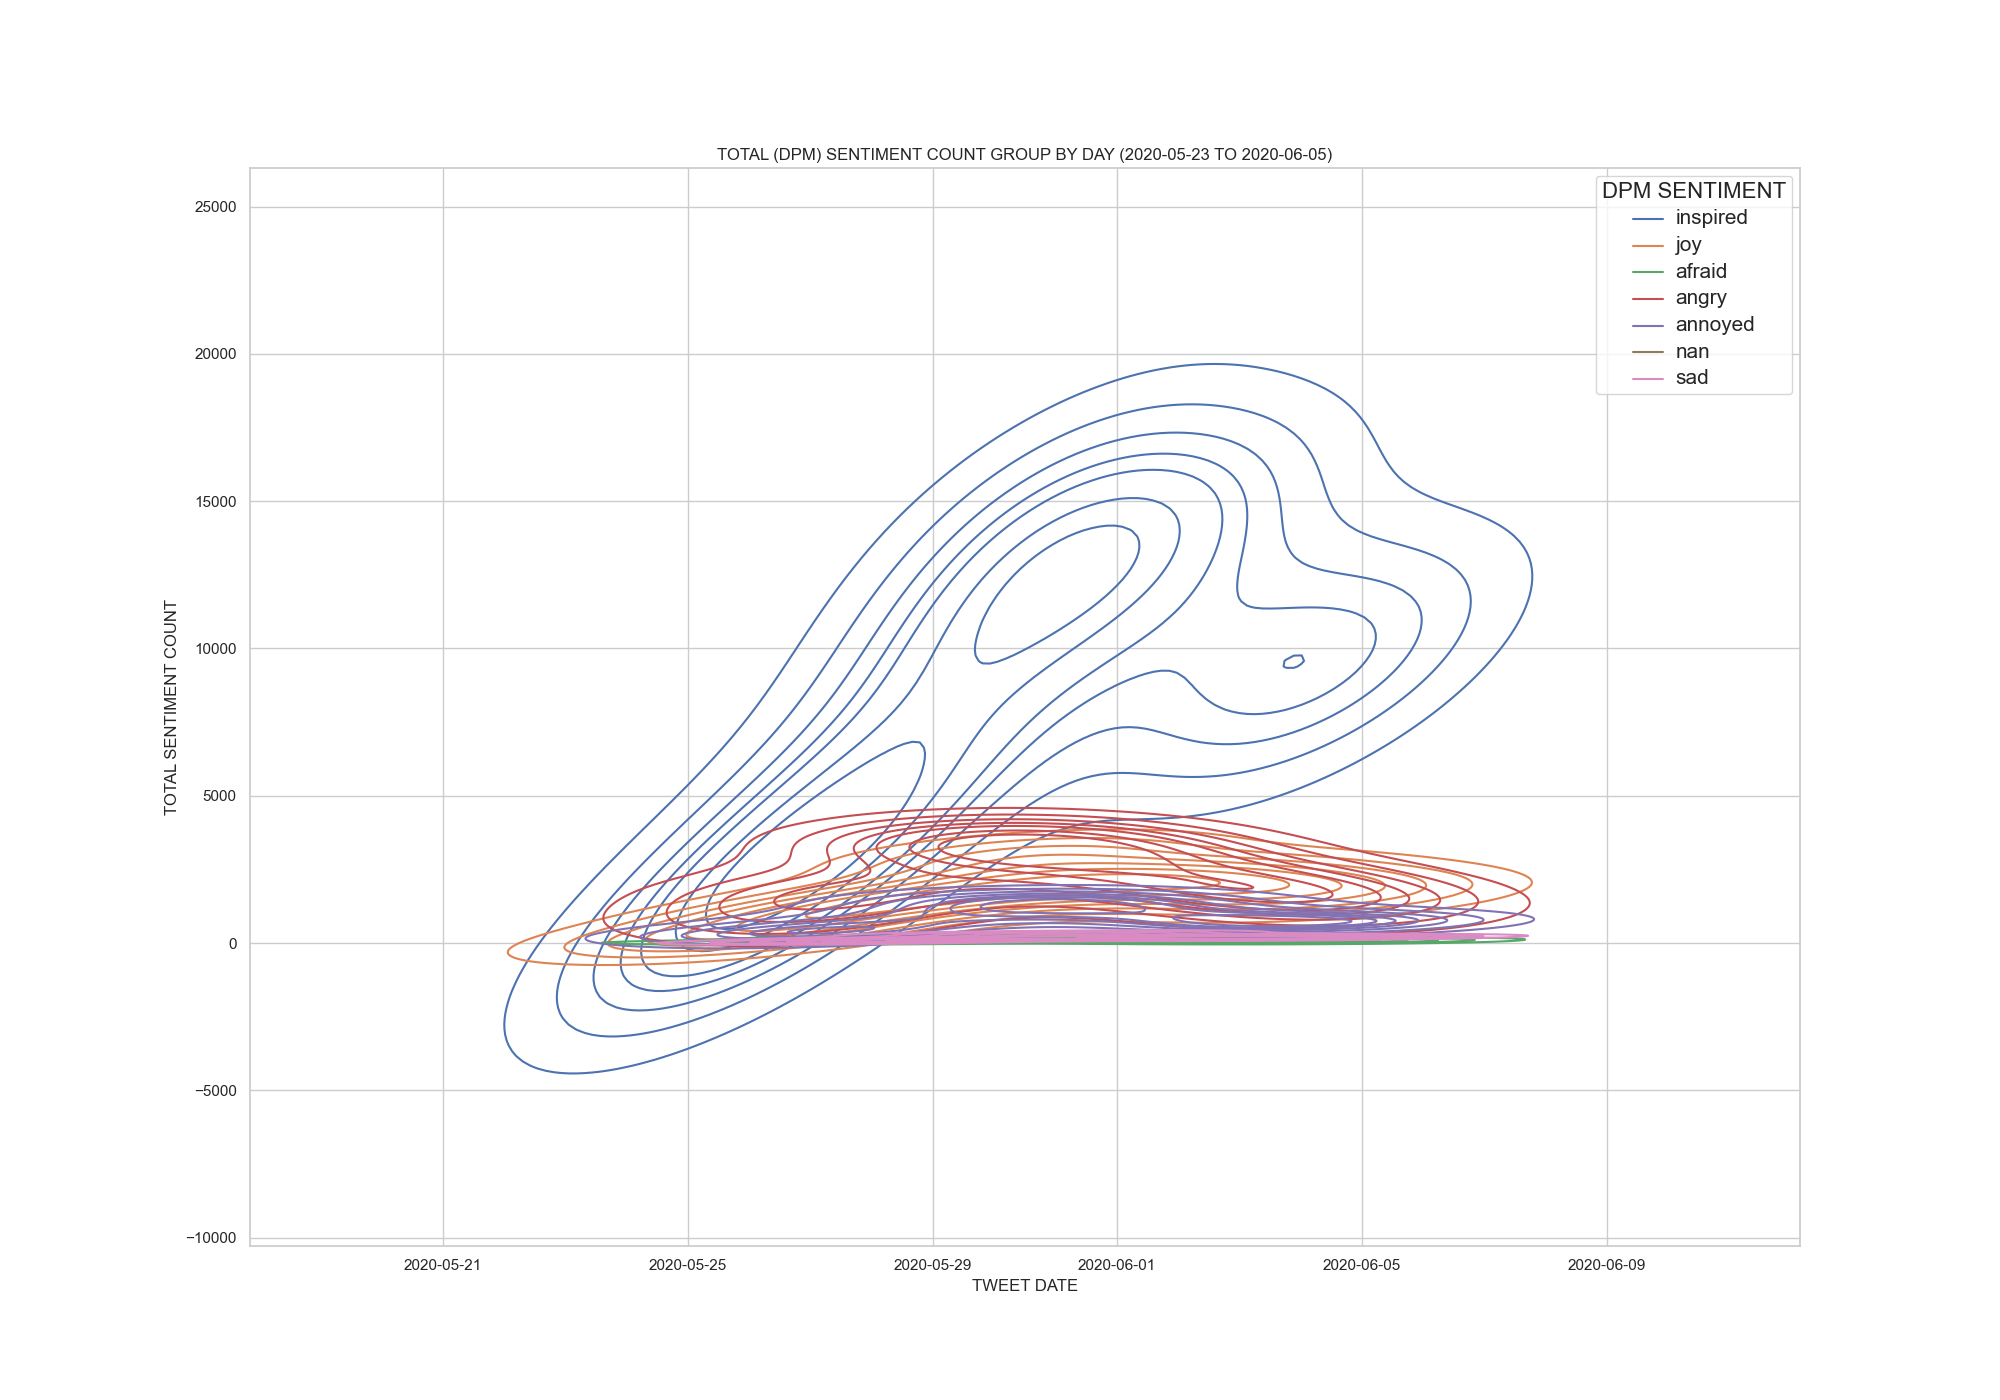
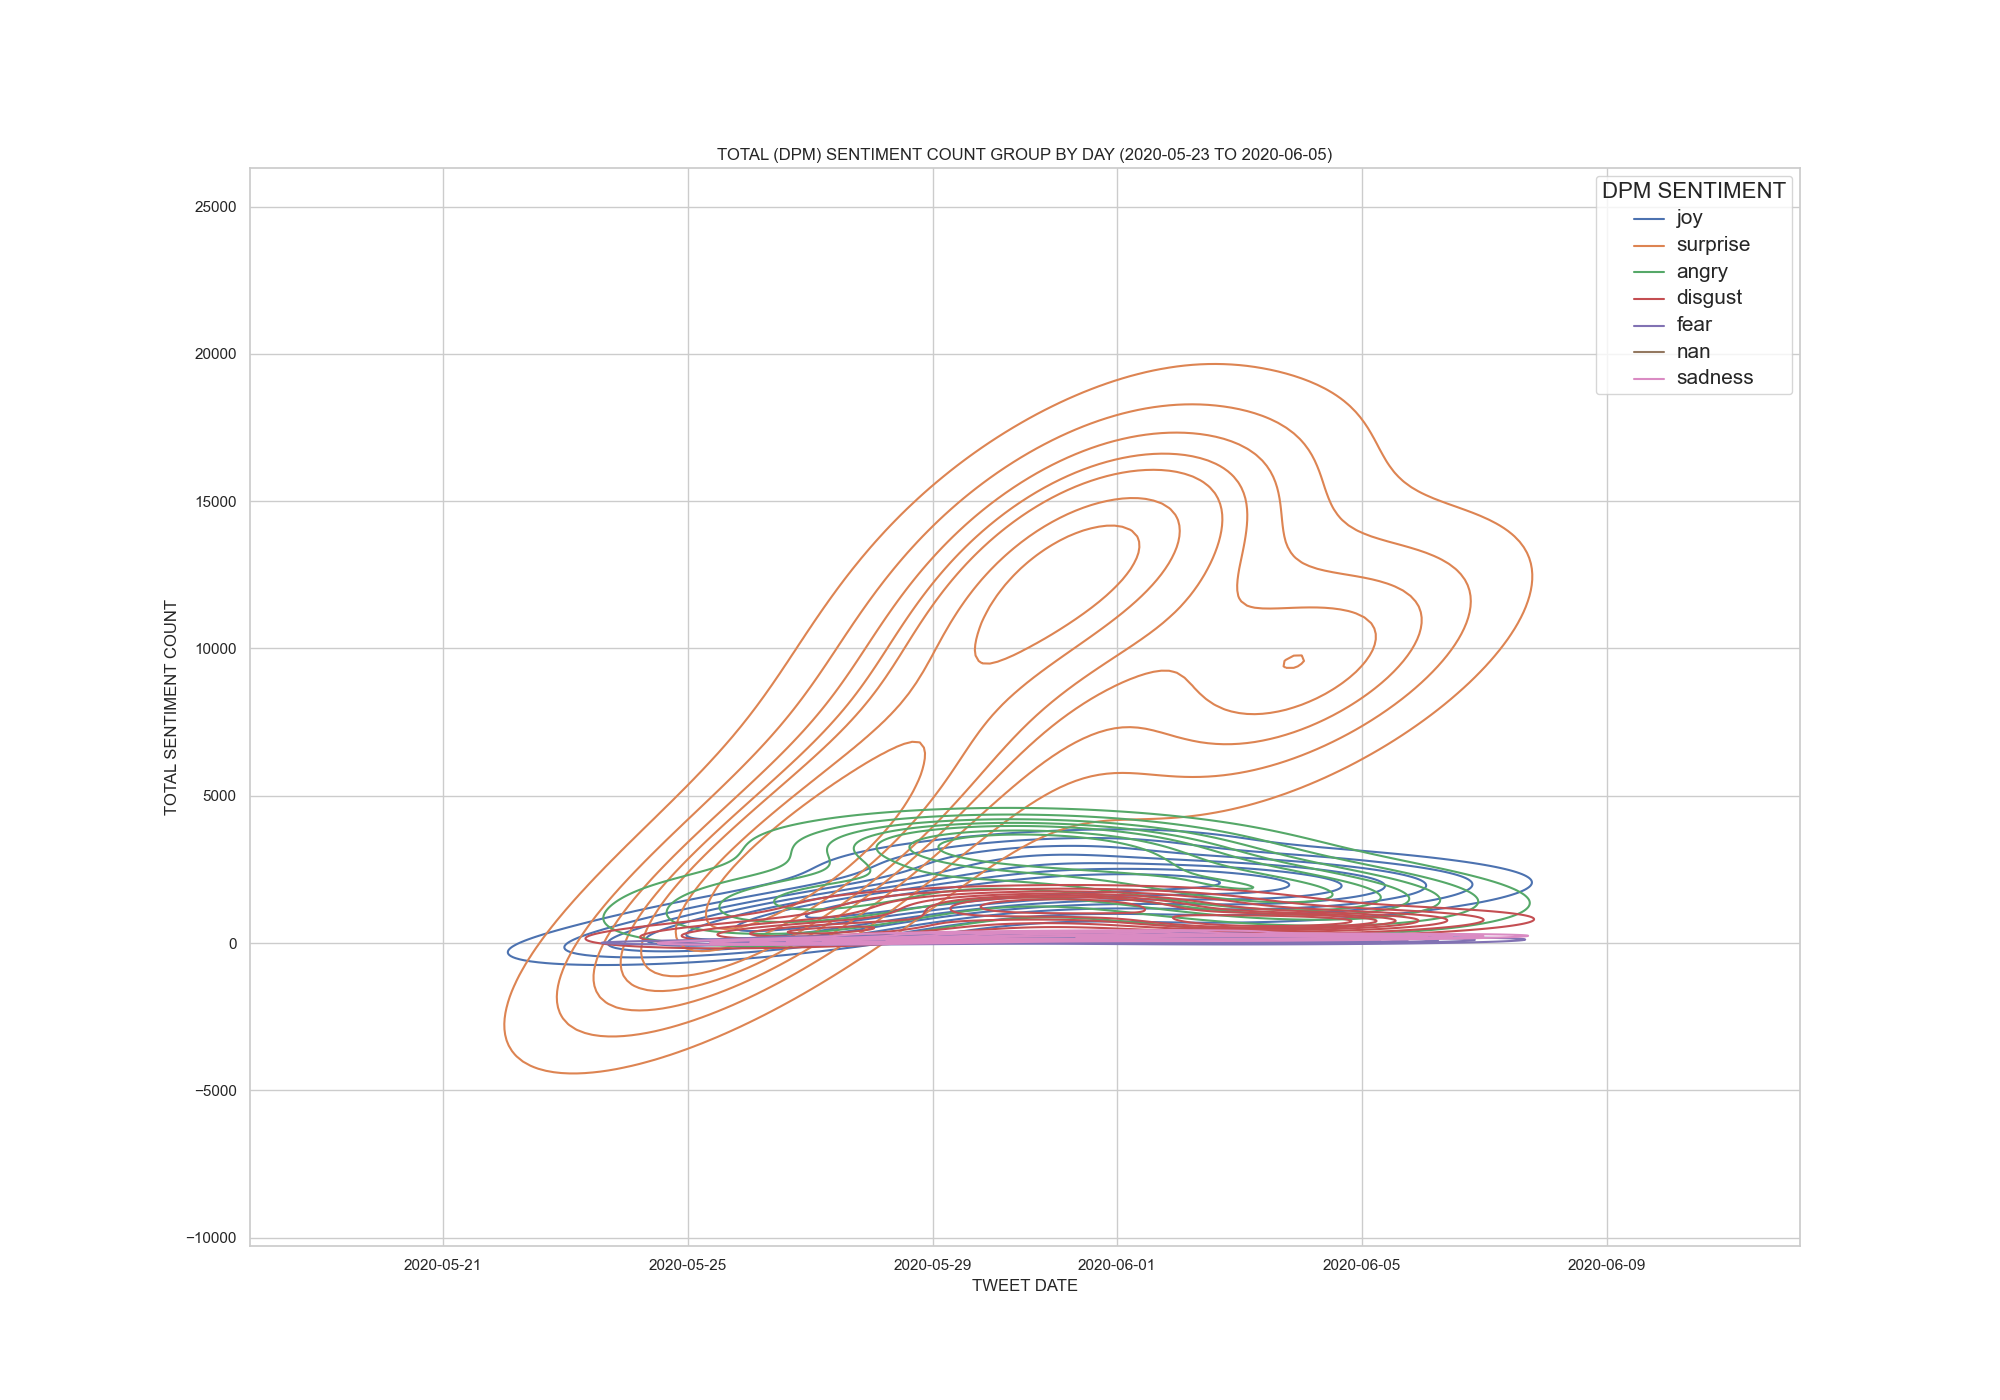
img

diff --git a/dataset/blm_minesota/3_analysis.py b/dataset/blm_minesota/3_analysis.py
@@ -39,7 +39,7 @@ include_count = True
 include_standard = True
 
 # LINE PLOT
-#LinePlotViz.plot_sentiment(df, "nrc", dir_path, min_intensity, focus_from_date, focus_to_date, include_count, include_standard)
-#LinePlotViz.plot_sentiment(df, "dpm", dir_path, min_intensity, focus_from_date, focus_to_date, include_count, include_standard)
-KdePlotViz.plot_sentiment(df, "nrc", dir_path, min_intensity, focus_from_date, focus_to_date, include_count, include_standard)
-KdePlotViz.plot_sentiment(df, "dpm", dir_path, min_intensity, focus_from_date, focus_to_date, include_count, include_standard)
+LinePlotViz.plot_sentiment(df, "nrc", dir_path, min_intensity, focus_from_date, focus_to_date, include_count, include_standard)
+LinePlotViz.plot_sentiment(df, "dpm", dir_path, min_intensity, focus_from_date, focus_to_date, include_count, include_standard)
+#KdePlotViz.plot_sentiment(df, "nrc", dir_path, min_intensity, focus_from_date, focus_to_date, include_count, include_standard)
+#KdePlotViz.plot_sentiment(df, "dpm", dir_path, min_intensity, focus_from_date, focus_to_date, include_count, include_standard)

diff --git a/Lexicon/DepecheMood/DepecheMoodController.py b/Lexicon/DepecheMood/DepecheMoodController.py
@@ -181,10 +181,19 @@ def run(df, is_standard_model):
 
 def combine_joy(x):
 
+    str_mood = x
     if x == "happy" or x == "amused":
-        return "joy"
+        str_mood = "joy"
+    elif x == "annoyed":
+        str_mood = "disgust"
+    elif x == "afraid":
+        str_mood = "fear"
+    elif x == "sad":
+        str_mood = "sadness"
+    elif x == "inspired":
+        str_mood = "surprise"
 
-    return x
+    return str_mood
 
 def get_standard_model(df):
 
